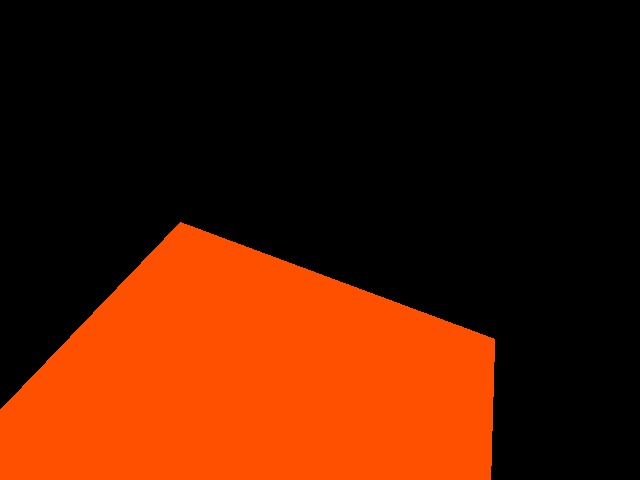
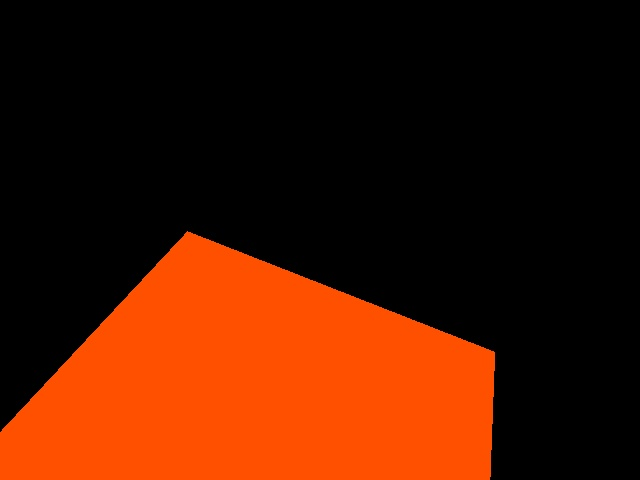
更新zhuanjixia掩模

Changed region(s): [[0.0, 0.4688, 0.7812, 0.9062]]

diff --git a/utils/create_mask.py b/utils/create_mask.py
@@ -89,12 +89,12 @@ def main():
     # bottom = line_params((140, 479), (413, 479))
     # mask = add_mask(mask_img, [left, top, right, bottom])
     # penfenshang left
-    mask_img = '../images/assets/penfenshang4.jpg'
-    left = line_params((112, 376), (177, 211))
-    top = line_params((177, 205), (229, 207))
-    right = line_params((142, 479), (262, 143))
-    bottom = line_params((103, 376), (157, 389))
-    mask = add_mask(mask_img, [left, top, right, bottom])
+    # mask_img = '../images/assets/penfenshang4.jpg'
+    # left = line_params((112, 376), (177, 211))
+    # top = line_params((177, 205), (229, 207))
+    # right = line_params((142, 479), (262, 143))
+    # bottom = line_params((103, 376), (157, 389))
+    # mask = add_mask(mask_img, [left, top, right, bottom])
 
 
     # baobantongyong
@@ -125,9 +125,17 @@ def main():
     # bottom = line_params((100, 175), (170, 183))
     # mask = add_mask(orig_mask, [left, top, right, bottom])
 
+    # zhuanjixia
+    orig_img = '../images/assets/zhuanjixia1.png'
+    left = line_params((184, 234), (1, 430))
+    top = line_params((180, 228), (473, 343))
+    right = line_params((495, 344), (490, 476))
+    bottom = line_params((10, 480), (450, 480))
+    mask = create_mask(orig_img, [left, top, right, bottom])
+
     cv2.imshow('mask', mask)
 
-    cv2.imwrite('../images/assets/penfenshang.jpg', mask)
+    cv2.imwrite('../images/masks/zhuanjixia.jpg', mask)
 
     cv2.waitKey(0)
     cv2.destroyAllWindows()
